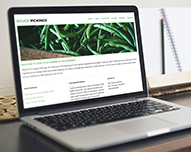
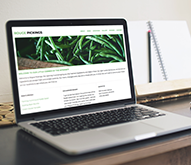
New portfolio img:hover all working

diff --git a/css/main.css b/css/main.css
@@ -1,4 +1,6 @@
-/*** UNIVERSAL SETTINGS ***/
+/*******************************
+        UNIVERSAL SETTINGS
+*******************************/
 body {
   background: #faf9f5;
 }
@@ -66,7 +68,9 @@ a {
   margin: auto;
 }
 
-/******** GRID *********/
+/*******************************
+          GRID
+*******************************/
 .full-width {
   width: 1200px;
 }
@@ -75,7 +79,9 @@ a {
   width: 600px;
 }
 
-/************ HEADER ************/
+/*******************************
+          HEADER
+*******************************/
 header {
   height: 65px;
   width: 1200px;
@@ -93,7 +99,9 @@ header a {
   color: black;
 }
 
-/************ NAV BAR ************/
+/*******************************
+        NAV BAR
+*******************************/
 nav {
   float: right;
   padding-top: 22px;
@@ -121,7 +129,9 @@ nav li a:hover {
   color: #bac6e5;
 }
 
-/********** MAIN **********/
+/*******************************
+            MAIN
+*******************************/
 main {
   width: 1200px;
   margin: auto;
@@ -132,7 +142,9 @@ main a {
   color: black;
 }
 
-/********** LANDING PAGE **********/
+/*******************************
+        LANDING PAGE
+*******************************/
 #welcome-headline h2 {
   text-align: center;
   margin: 20px 0 0 0;
@@ -150,7 +162,9 @@ main a {
 }
 
 
-/*** ABOUT ***/
+/*******************************
+        ABOUT
+*******************************/
 #about-headline h2{
   margin: 20px 0 0 0;
 }
@@ -192,7 +206,9 @@ main a {
   font-size: 14px;
 }
 
-/*** TALENT BOX ***/
+/*******************************
+        TALENT BOX
+*******************************/
 #talent-container {
   width: 100%;
   height: 510px;
@@ -259,7 +275,9 @@ main a {
 }
 
 
-/*** PORTFOLIO ***/
+/*******************************
+        PORTFOLIO
+*******************************/
 #portfolio-headline {
   height: 45px;
   margin: auto;
@@ -272,7 +290,7 @@ main a {
 
 #portfolio-text {
     margin: auto;
-    height: 60px;
+    height: 80px;
     margin-top: 5px;
 }
 
@@ -280,11 +298,12 @@ main a {
   text-align: center;
 }
 
+/* this is the buttons that are commented out
 #portfolio-parts {
   width: 620px;
   height: 55px;
   margin-left: 300px;
-}
+} */
 
 .parts {
   background-color: #192543;
@@ -301,14 +320,16 @@ main a {
 }
 
 .coming-soon {
-  color: #d6def2;
+  color: white;
   text-align: center;
   font-family: 'Oswald', sans-serif;
   font-size: 17px;
   line-height: 150px;
 }
 
-/**** POPUPS ***/
+/*******************************
+          POPUPS
+*******************************/
 /* text styles */
 .project-text { /* the text in the popup */
   font-family: 'Raleway', serif;
@@ -353,7 +374,7 @@ figure.background-figure p {
   position: absolute;
   width: 240px;
   opacity: 0;
-  top: 250px;
+  top: 215px; /*this is the positioning from top */
   padding: 10px;
 }
 
@@ -361,26 +382,28 @@ figure.small-box p { /*this is for the smaller boxes */
   width: 170px;
 }
 
-/***** PIC GRID *******/
+/*******************************
+          PIC GRID
+*******************************/
 
 .container {
-  width: 800px;
+  width: 830px;
   height: 600px;
   margin: auto;
 }
 
 .grid-pic {
   float: left;
-  margin-right: 5px;
+  margin-right: 15px;
   width: 290px;
   height: 423px;
 }
 
 .middle {
   width: 190px;
-  height: 485px;
+  height: 500px;
   float: left;
-  margin-right: 5px;
+  margin-right: 15px;
 }
 
 #start-top {
@@ -404,28 +427,29 @@ figure.small-box p { /*this is for the smaller boxes */
   background: url('../img/start-webdev.png');
 }
 
-
 #portfolio-top {
-  height: 150px;
+  height: 165px;
   width: 190px;
-  margin-bottom: 5px;
+
 }
 
 #portfolio-middle {
-  height: 150px;
+  height: 165px;
   width: 190px;
-  background: #bac6e5;
-  margin-bottom: 5px;
+  background: #A9A9A9;
+
 }
 
 #portfolio-bottom {
-  height: 150px;
+  height: 165px;
   width: 190px;
-  background: #bac6e5;
+  background: #A9A9A9;
 }
 
 
-/*** CONTACT ***/
+/*******************************
+        CONTACT
+*******************************/
 #contact-headline {
   height: 45px;
   margin: auto;
@@ -470,7 +494,9 @@ figure.small-box p { /*this is for the smaller boxes */
   text-decoration: none;
 }
 
-/*** FOOTER ***/
+/*******************************
+          FOOTER
+*******************************/
 footer { /* this is the container */
   position: fixed;
   background: #192543;

diff --git a/portfolio/index.html b/portfolio/index.html
@@ -32,15 +32,16 @@
   <h2>Portfolio</h2>
 </div>
 <div id="portfolio-text" class="half-width">
-  <p>This is a sample of my work. I've done web development, web designs and branding and graphic design. If you have a project, <a href="../contact/index.html" class="hover-highlight">send me an email!</a></p>
+  <p>This is a sample of my work. I've done web development, web designs and branding and graphic design. If you have a project, <a href="mailto:hello@nordicdesign.studio" class="hover-highlight">send me an email!</a></p>
 </div>
 
+<!-- The "buttons"
 <div id="portfolio-parts">
   <div class="parts"><h3>Web Development</h3></div>
   <div class="parts"><h3>Visual Design</h3></div>
   <div class="parts"><h3>Graphic Design</h3></div>
 </div>
-
+-->
 
 
 <div class="container">
@@ -77,7 +78,7 @@
             <span class="project-company">Skillcrush</span>
             <br>
             <br>
-            A static one page site from a Photoshop Comp.
+            A static one page site from a PSD Comp.
             <br>
             <br>
             <strong>Skills used:</strong> HTML, CSS, Photoshop.
